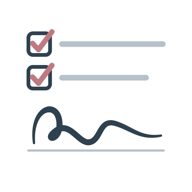
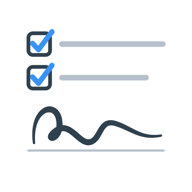
Rename to 살롱 동의서 and add terms

Changed region(s): [[0.1562, 0.3125, 0.2812, 0.4688], [0.1562, 0.125, 0.2812, 0.2812]]

diff --git a/privacy.html b/privacy.html
@@ -1,41 +1,50 @@
 <!doctype html>
 <html lang="ko">
 <head><meta charset="utf-8"><meta name="viewport" content="width=device-width, initial-scale=1">
-<title>개인정보처리방침 – 엘리아더 동의서</title><link rel="stylesheet" href="style.css"></head>
-<body><main>
+<title>개인정보처리방침 – 살롱 동의서</title><link rel="stylesheet" href="style.css"></head>
+<body><main><div class="card">
 <h1>개인정보처리방침</h1>
-<p class="muted">엘리아더 동의서 (엘리아더헤어 매장 전용 아이패드 앱) · 시행일 2026년 11월 18일</p>
+<p class="muted">살롱 동의서 (아이패드 앱) · 시행일 2026년 11월 19일</p>
 
-<h2>1. 처리하는 정보</h2>
-<p>매장에서 동의서를 받을 때 다음 정보를 기록합니다.</p>
+<h2>1. 기본 원칙</h2>
+<p>살롱 동의서는 회원가입이 없고, 개발자가 운영하는 서버가 없습니다. 앱에 기록되는 정보는 사용자의 아이패드와, 사용자가 연결한 사용자 본인의 구글 드라이브에만 저장됩니다. 개발자는 이 정보를 받거나 볼 수 없습니다.</p>
+
+<h2>2. 앱에 기록되는 정보</h2>
+<p>사용자가 손님에게 동의서를 받을 때 다음 정보가 기록됩니다.</p>
 <ul>
-<li>고객 이름</li>
+<li>손님 이름</li>
 <li>동의서 위의 체크와 서명</li>
-<li>손글씨 상담 내용</li>
-<li>시술 전 사진</li>
+<li>손글씨 상담 내용과 두상 그림</li>
+<li>시술 전 사진 (앱에서 촬영하거나 사진첩에서 불러온 사진)</li>
 <li>담당 디자이너 이름, 작성 일시</li>
+<li>사용자가 넣은 매장 이름과 로고 (커스텀 모드를 쓰는 경우)</li>
 </ul>
 
-<h2>2. 이용 목적</h2>
-<p>시술 동의 사실과 상담 내용을 기록·보관하기 위해서만 사용합니다. 광고, 마케팅, 통계 분석에는 사용하지 않습니다.</p>
+<h2>3. 이용 목적</h2>
+<p>시술 동의 사실과 상담 내용을 기록하고 보관하기 위해서만 쓰입니다. 광고, 마케팅, 통계 분석에는 쓰이지 않습니다.</p>
 
-<h2>3. 보관 위치</h2>
+<h2>4. 보관 위치</h2>
 <ul>
-<li>매장 아이패드 안의 앱 저장 공간</li>
-<li>매장이 앱에서 로그인한 구글 계정의 구글 드라이브</li>
+<li>사용자 아이패드 안의 앱 저장 공간</li>
+<li>구독 중이고 구글 계정을 연결한 경우, 사용자 본인의 구글 드라이브</li>
 </ul>
-<p>사진은 아이패드 사진 앱에 저장하지 않습니다. 앱 개발자나 다른 회사의 서버로 보내지 않습니다.</p>
+<p>사진은 아이패드 사진 앱에 저장되지 않습니다. 사진첩에서 불러올 때는 사용자가 고른 사진만 앱이 받으며, 사진첩 전체에 접근하지 않습니다.</p>
 
-<h2>4. 구글 계정 정보의 사용</h2>
-<p>앱은 구글 로그인으로 <code>drive.file</code> 권한만 요청합니다. 이 권한으로는 앱이 직접 만든 파일과 폴더에만 접근할 수 있으며, 드라이브의 다른 파일은 볼 수 없습니다. 이 권한은 동의서 PDF를 매장 드라이브에 올리는 데에만 사용합니다. 로그인한 계정의 이메일 주소는 어느 계정으로 올라가는지 화면에 표시하는 데에만 사용합니다.</p>
+<h2>5. 구글 계정 정보의 사용</h2>
+<p>앱은 구글 로그인으로 <code>drive.file</code> 권한만 요청합니다. 이 권한으로는 앱이 직접 만든 파일과 폴더에만 접근할 수 있으며, 드라이브의 다른 파일은 볼 수 없습니다. 이 권한은 동의서 PDF를 사용자의 드라이브에 올리는 데에만 쓰입니다. 로그인한 계정의 이메일 주소는 어느 계정으로 올라가는지 화면에 표시하는 데에만 쓰입니다.</p>
 <p>구글 API로 받은 정보의 사용과 다른 앱으로의 전송은 <a href="https://developers.google.com/terms/api-services-user-data-policy">Google API 서비스 사용자 데이터 정책</a>의 제한적 사용(Limited Use) 요건을 따릅니다.</p>
 
-<h2>5. 제3자 제공</h2>
-<p>법령에 따른 요청이 있는 경우를 제외하고, 처리하는 정보를 제3자에게 제공하지 않습니다.</p>
+<h2>6. 구독 결제</h2>
+<p>구독 결제는 Apple 앱스토어가 처리합니다. 개발자는 카드 번호 등 결제 정보를 받지 않습니다. 앱은 구독 중인지 여부만 기기 안에서 Apple을 통해 확인합니다.</p>
 
-<h2>6. 보관 기간과 파기</h2>
-<p>보관 기간과 파기 방법은 매장이 정합니다. 매장은 드라이브의 파일을 직접 삭제할 수 있으며, 업로드가 끝난 기록은 앱 설정에서 아이패드에서 지울 수 있습니다.</p>
+<h2>7. 제3자 제공과 광고</h2>
+<p>앱은 광고를 보여 주지 않고, 광고·분석 도구를 쓰지 않으며, 기록된 정보를 제3자에게 제공하지 않습니다.</p>
 
-<h2>7. 문의</h2>
-<p>개인정보에 관한 문의와 열람·삭제 요청은 엘리아더헤어 매장으로 해 주세요.</p>
+<h2>8. 보관 기간과 삭제</h2>
+<p>보관 기간은 사용자가 정합니다. 앱의 기록 화면에서 기록을 지울 수 있고, 설정의 초기화로 아이패드 안의 모든 정보를 지울 수 있습니다. 구글 드라이브에 올라간 파일은 사용자가 드라이브에서 직접 지웁니다. 앱을 삭제하면 아이패드 안의 정보도 함께 지워집니다.</p>
+
+<h2>9. 손님의 개인정보</h2>
+<p>손님의 정보를 기록하는 사용자(매장 또는 디자이너)는 손님에게 필요한 동의를 받고, 보관과 파기를 관리할 책임이 있습니다.</p>
+</div>
+<nav><a href="index.html">살롱 동의서</a><a href="terms.html">이용약관</a></nav>
 </main></body></html>

diff --git a/terms.html b/terms.html
@@ -1,0 +1,34 @@
+<!doctype html>
+<html lang="ko">
+<head><meta charset="utf-8"><meta name="viewport" content="width=device-width, initial-scale=1">
+<title>이용약관 – 살롱 동의서</title><link rel="stylesheet" href="style.css"></head>
+<body><main><div class="card">
+<h1>이용약관</h1>
+<p class="muted">살롱 동의서 (아이패드 앱) · 시행일 2026년 11월 19일</p>
+
+<h2>1. 서비스</h2>
+<p>살롱 동의서는 시술 동의서 서명, 손글씨 상담, 시술 전 사진을 PDF로 저장하는 아이패드 앱입니다. 무료로 쓸 수 있으며, 일부 기능(구글 드라이브 자동 저장, 디자이너·양식 무제한, 커스텀 모드, 한 손님에게 양식 여러 개)은 구독으로 제공됩니다.</p>
+
+<h2>2. 구독</h2>
+<ul>
+<li>구독은 월간 또는 연간 자동 갱신 상품이며, 결제와 갱신은 Apple 앱스토어가 처리합니다.</li>
+<li>처음 구독하는 Apple ID에는 무료 체험 기간이 제공될 수 있으며, 체험이 끝나면 해지하지 않는 한 자동으로 결제됩니다.</li>
+<li>구독은 다음 갱신일 24시간 전까지 아이패드 설정 › Apple ID › 구독에서 해지할 수 있습니다. 해지해도 이미 결제한 기간까지는 쓸 수 있습니다.</li>
+<li>환불은 Apple 앱스토어의 정책에 따릅니다.</li>
+<li>구독이 끝나도 이미 저장한 동의서는 계속 볼 수 있습니다.</li>
+</ul>
+
+<h2>3. 데이터</h2>
+<p>앱에 기록되는 정보는 사용자의 아이패드와 사용자의 구글 드라이브에만 저장되며, 그 관리 책임은 사용자에게 있습니다. 자세한 내용은 <a href="privacy.html">개인정보처리방침</a>을 따릅니다.</p>
+
+<h2>4. 동의서 양식</h2>
+<p>앱이 제공하는 기본 양식은 참고용입니다. 법적 검토를 거친 것이 아니므로, 사용자는 자신의 상황에 맞는지 확인한 뒤 사용해야 합니다. 동의서 내용에 대한 책임은 사용자에게 있습니다.</p>
+
+<h2>5. 책임의 한계</h2>
+<p>개발자는 사용자의 기기 분실·고장, 구글 드라이브 계정 문제, 사용자의 삭제로 인한 기록 손실에 대해 책임지지 않습니다. 중요한 기록은 구글 드라이브 자동 저장 등으로 따로 보관하기를 권합니다.</p>
+
+<h2>6. 약관 변경</h2>
+<p>약관이 바뀌면 이 페이지에 시행일과 함께 알립니다.</p>
+</div>
+<nav><a href="index.html">살롱 동의서</a><a href="privacy.html">개인정보처리방침</a></nav>
+</main></body></html>

diff --git a/index.html b/index.html
@@ -1,12 +1,22 @@
 <!doctype html>
 <html lang="ko">
 <head><meta charset="utf-8"><meta name="viewport" content="width=device-width, initial-scale=1">
-<title>엘리아더 동의서</title><link rel="stylesheet" href="style.css"></head>
+<title>살롱 동의서</title><link rel="stylesheet" href="style.css"></head>
 <body><main>
+<div class="card">
 <img class="icon" src="icon.png" alt="">
-<h1>엘리아더 동의서</h1>
-<p class="muted">엘리아더헤어 매장 전용 아이패드 앱</p>
-<p>매장에서 시술 동의서를 받을 때 쓰는 앱입니다. 동의서 PDF에 고객 사인을 받고, 손글씨 상담 내용과 시술 전 사진을 함께 묶어 PDF 한 개로 저장한 뒤, 매장의 구글 드라이브에 보관합니다.</p>
-<p>일반에 배포하는 앱이 아니며, 매장 직원만 사용합니다.</p>
-<p><a href="privacy.html">개인정보처리방침</a></p>
+<h1>살롱 동의서</h1>
+<p class="muted">사인, 상담, 시술 전 사진을 PDF 하나로</p>
+<p>미용실, 네일, 속눈썹, 반영구 샵에서 시술 동의서를 받을 때 쓰는 아이패드 앱입니다. 동의서 PDF에 손님 사인을 받고, 손글씨 상담 내용과 두상 그림, 시술 전 사진을 함께 묶어 PDF 한 개로 저장합니다.</p>
+</div>
+<div class="card">
+<h2 style="margin-top:0">이런 점이 다릅니다</h2>
+<ul>
+<li><b>회원가입이 없습니다.</b> 앱을 열면 바로 씁니다.</li>
+<li><b>모든 동의서는 사용자의 것입니다.</b> 사인, 상담 내용, 사진은 사용자의 아이패드와 사용자의 구글 드라이브에만 저장됩니다. 개발자 서버로 보내지 않으며, 개발자도 볼 수 없습니다.</li>
+<li><b>광고가 없습니다.</b></li>
+<li>구독하면 동의서가 구글 드라이브에 디자이너별·월별로 자동 정리됩니다.</li>
+</ul>
+</div>
+<nav><a href="privacy.html">개인정보처리방침</a><a href="terms.html">이용약관</a></nav>
 </main></body></html>

diff --git a/style.css b/style.css
@@ -1,7 +1,10 @@
-body { font-family: -apple-system, "Apple SD Gothic Neo", "Noto Sans KR", sans-serif; color: #24323D; background: #F3EEE6; margin: 0; line-height: 1.7; }
+body { font-family: -apple-system, "Apple SD Gothic Neo", "Pretendard", "Noto Sans KR", sans-serif; color: #191F28; background: #F2F4F6; margin: 0; line-height: 1.7; }
 main { max-width: 720px; margin: 0 auto; padding: 48px 24px 80px; }
-h1 { font-size: 28px; margin-bottom: 4px; }
-h2 { font-size: 19px; margin-top: 36px; }
-.muted { color: #7B8794; font-size: 14px; }
-a { color: #5B7088; }
-img.icon { width: 96px; height: 96px; border-radius: 22px; box-shadow: 0 4px 16px rgba(0,0,0,.12); }
+.card { background: #fff; border-radius: 24px; padding: 32px; margin-bottom: 16px; }
+h1 { font-size: 30px; margin: 16px 0 4px; }
+h2 { font-size: 19px; margin-top: 32px; }
+.muted { color: #8B95A1; font-size: 15px; }
+a { color: #2F7BF5; text-decoration: none; }
+img.icon { width: 88px; height: 88px; border-radius: 20px; box-shadow: 0 4px 16px rgba(0,0,0,.08); }
+ul { padding-left: 20px; }
+nav a { margin-right: 16px; }
